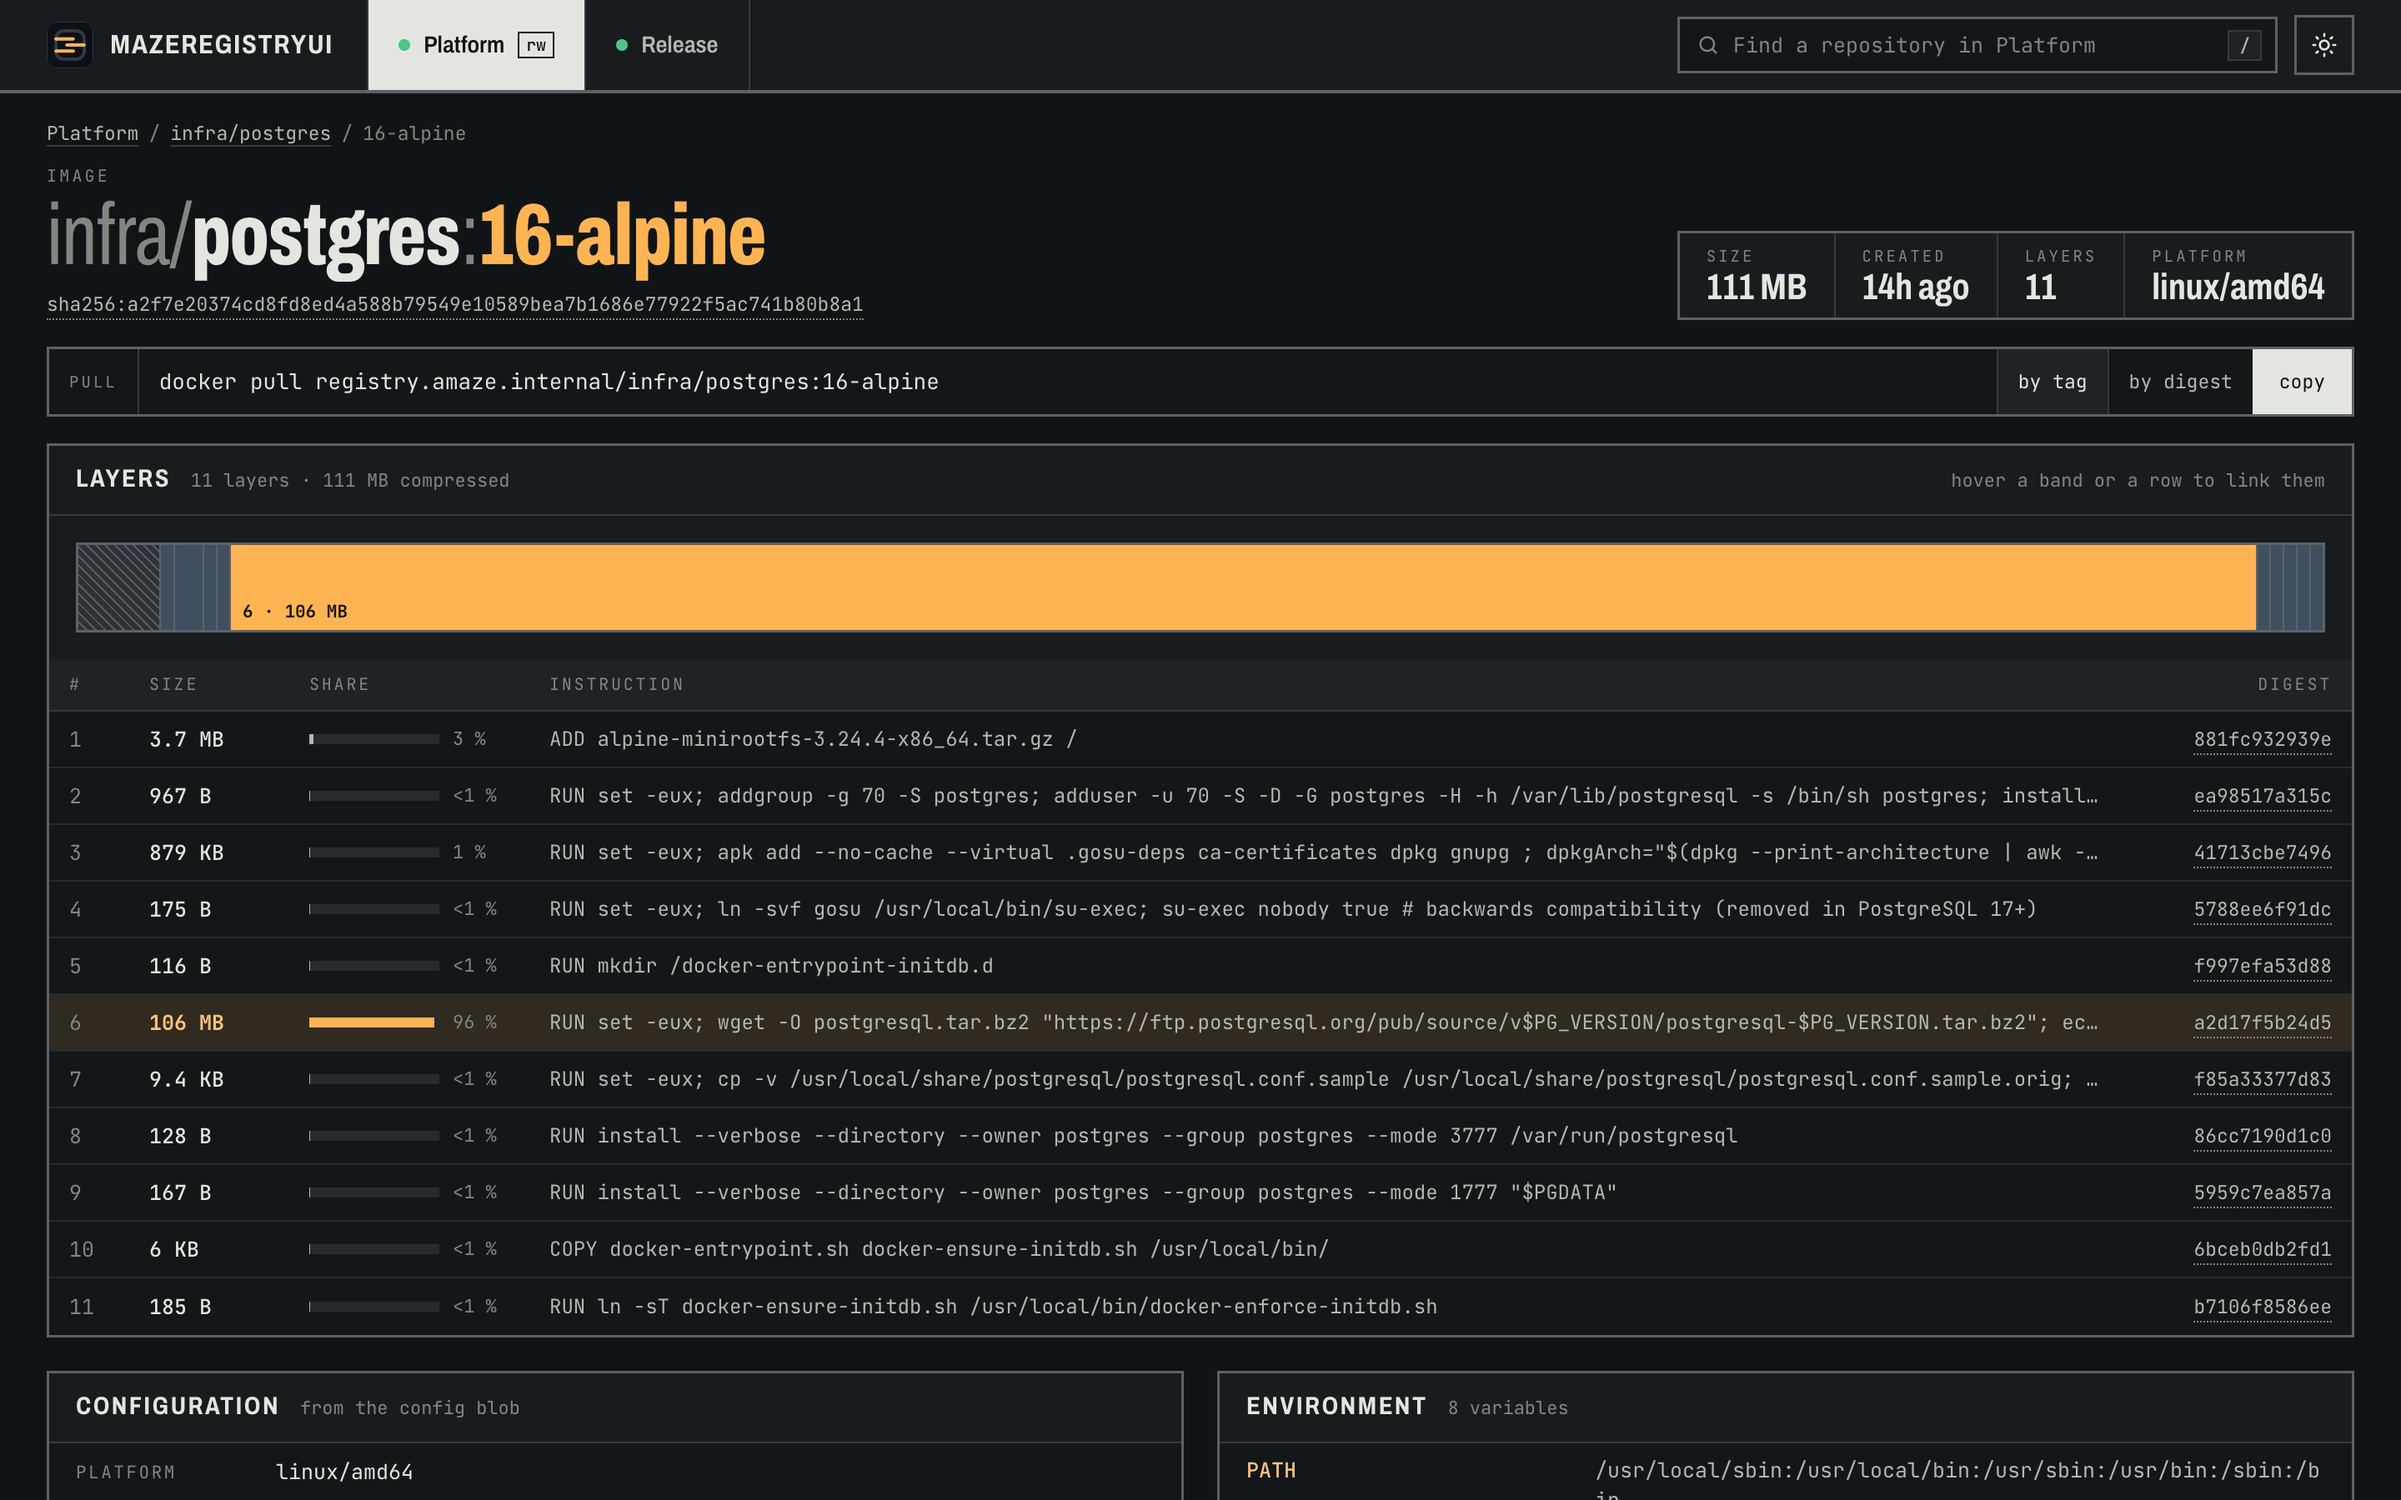
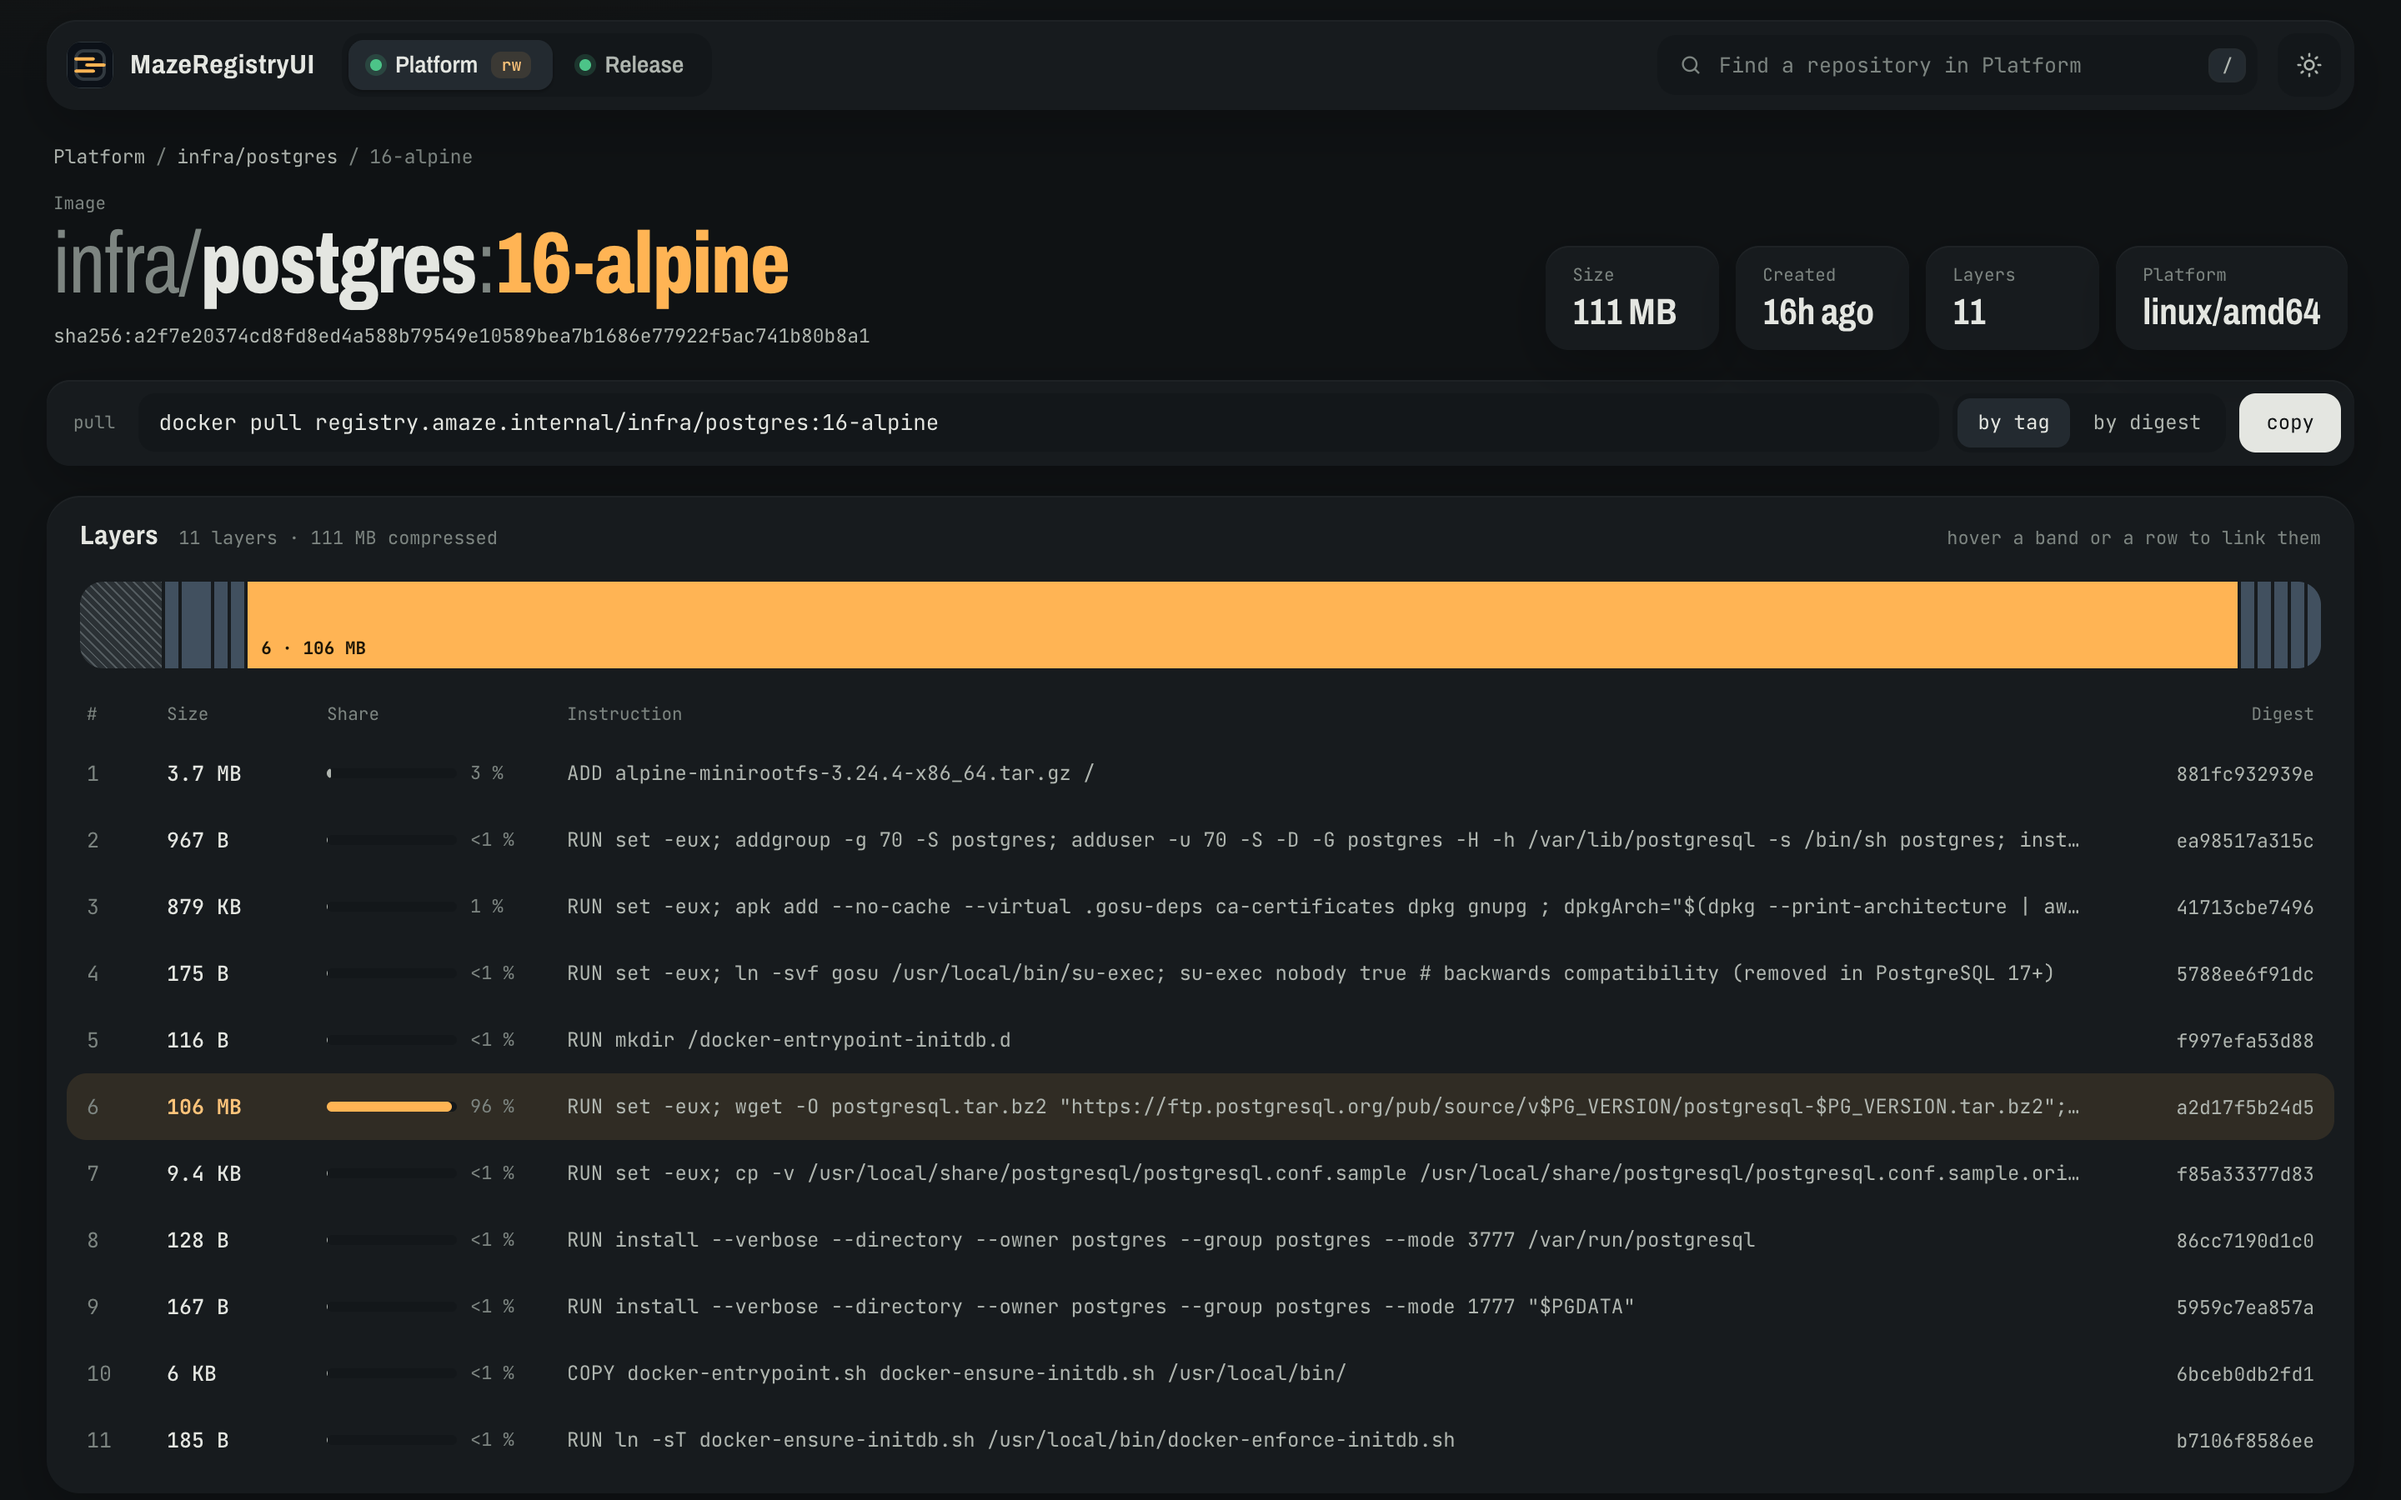
docs: describe the soft sheet and retake the screenshots

diff --git a/CLAUDE.md b/CLAUDE.md
@@ -71,7 +71,7 @@ The same rules, for humans, are in `CONTRIBUTING.md`.
 - **Tag ordering**: the registry's own order sets the pagination cursor BEFORE the natural display sort (`latest` first) rearranges the page — don't swap those steps.
 - **Index sizes count distinct blobs once**; attestation children (`unknown/unknown`) are listed but excluded from platforms; a missing config blob is not fatal. Product decisions, not accidents.
 - **A stale catalog beats an error page**: a failed refresh serves the previous list.
-- **The look is the "survey sheet"** (`app.css` header): square corners, ink rules, Archivo for headings, JetBrains Mono for every value, the logo amber as the only accent. Colours are tokens with one name and a light and a dark value (`[data-theme]`); components use only the names. Don't add a colour outside the token block.
+- **The look is the "soft sheet"** (`app.css` header): rounded cards on a quiet ground with hairline dividers and a light shadow, Archivo for headings, JetBrains Mono for every value, the logo amber as the only accent. The catalog is a side rail (registry card, namespaces, keys) next to one card holding the rows; below 900px the rail folds into a heading, namespaces become chips and every group is its own card. Colours are tokens with one name and a light and a dark value (`[data-theme]`); components use only the names. Don't add a colour outside the token block.
 - **Layer strips are SVG, not CSS widths**: rows arrive as HTMX fragments, which cannot carry the page's style nonce. Anything proportional inside a fragment follows the same rule; on a full page the nonced `<style>` (`layerCSS`) is fine.
 - **Namespace colours come from `catalogCache.Tint`** (alphabetical slots, hash fallback) — never compute them anywhere else, or the catalog, the repository page and the image page will disagree.
 - **Lazy rows inside a group set `hx-target="this"`**: htmx 2 inherits attributes, and the group's own `hx-target` would otherwise apply to them.

diff --git a/docs/ARCHITECTURE.md b/docs/ARCHITECTURE.md
@@ -205,7 +205,10 @@ should not hide the other five.
 
 ### The catalog: groups, rows and strips
 
-The catalog is grouped by namespace (`buildCatalog`). The grouping costs
+The catalog page is a side rail — the registry, every namespace with its
+count, the keyboard shortcuts — next to one card holding the rows; on a
+phone the rail folds into a heading and the first namespaces become chips.
+The rows are grouped by namespace (`buildCatalog`). The grouping costs
 nothing — it is computed from the in-memory index — and it decides how much
 of a large registry is drawn at all:
 
